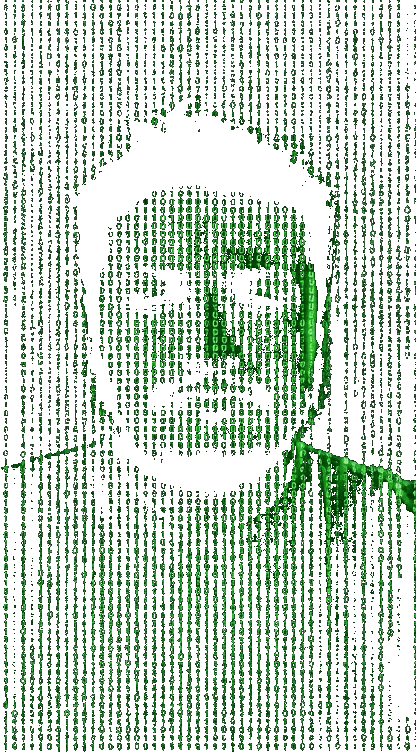
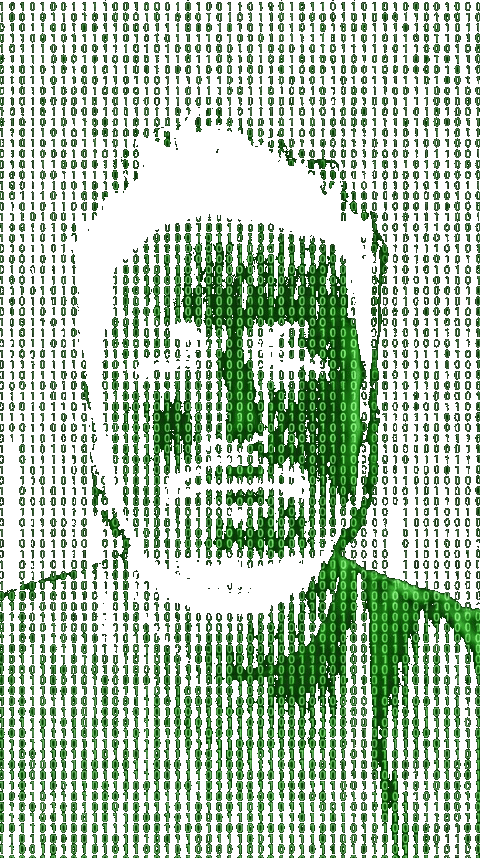
chore: 🔧 Hologram zoom effect + updated portrait frames
- hologram-projection: Added isZoomed input for scale effect (v4.6.4)
- hologram-projection.scss: Smooth zoom transition with scale(1.12)
- Updated 30 Daniel portrait PNG frames with improved quality

🤖 Generated with [Claude Code](https://claude.com/claude-code)

diff --git a/dungeon-ai-landing/src/app/components/hologram-projection/hologram-projection.component.html b/dungeon-ai-landing/src/app/components/hologram-projection/hologram-projection.component.html
@@ -4,9 +4,11 @@
      (click)="onBackdropClick($event)">
 
   <!-- Main hologram container -->
+  <!-- v4.6.4: Added zoomed class for hologram-only scale effect -->
   <div class="hologram-container"
        [ngStyle]="getHologramStyle()"
        [class.appearing]="isAppearing()"
+       [class.zoomed]="isZoomed"
        [class.url-mode]="pillarConfig?.type === 'external'"
        [class.service-mode]="pillarConfig?.type === 'modal'">
 

diff --git a/dungeon-ai-landing/src/app/components/hologram-projection/hologram-projection.component.scss b/dungeon-ai-landing/src/app/components/hologram-projection/hologram-projection.component.scss
@@ -66,6 +66,15 @@ $green-subtle: rgba(0, 255, 68, 0.1);
       pointer-events: none;
     }
   }
+
+  // v4.6.4: Hologram-only zoom effect (fixes robot floating)
+  // Smooth transition for zoom
+  transition: transform 0.5s cubic-bezier(0.34, 1.56, 0.64, 1);
+
+  &.zoomed {
+    transform: scale(1.12);  // Subtle scale for better readability
+    transform-origin: center center;
+  }
 }
 
 @keyframes hologram-flicker {

diff --git a/dungeon-ai-landing/src/app/components/hologram-projection/hologram-projection.component.ts b/dungeon-ai-landing/src/app/components/hologram-projection/hologram-projection.component.ts
@@ -41,6 +41,7 @@ export class HologramProjectionComponent implements OnInit, OnDestroy, OnChanges
   @Input() pillarScreenX = 0;
   @Input() pillarScreenY = 0;
   @Input() isVisible = false;
+  @Input() isZoomed = false;  // v4.6.4: For hologram-only zoom effect
 
   // Outputs
   @Output() closeHologram = new EventEmitter<void>();
